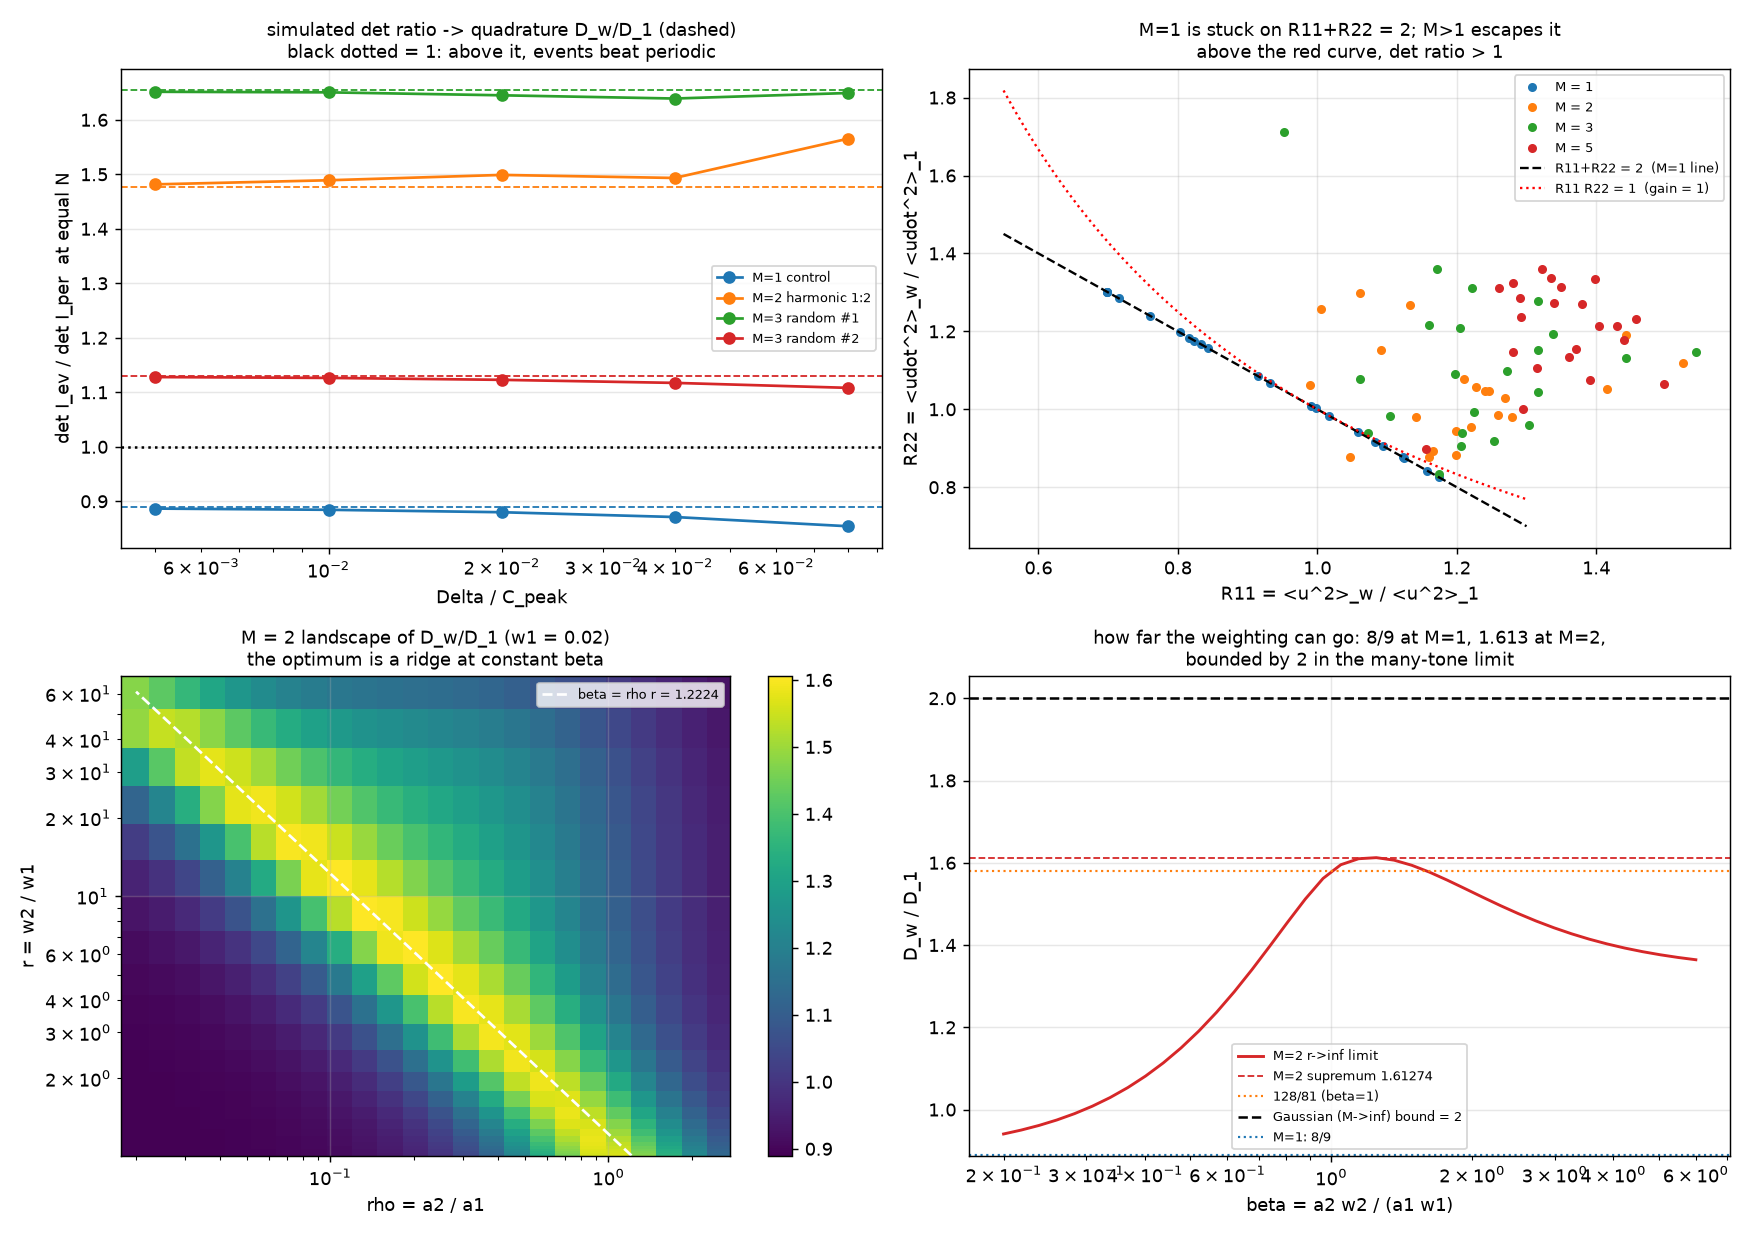
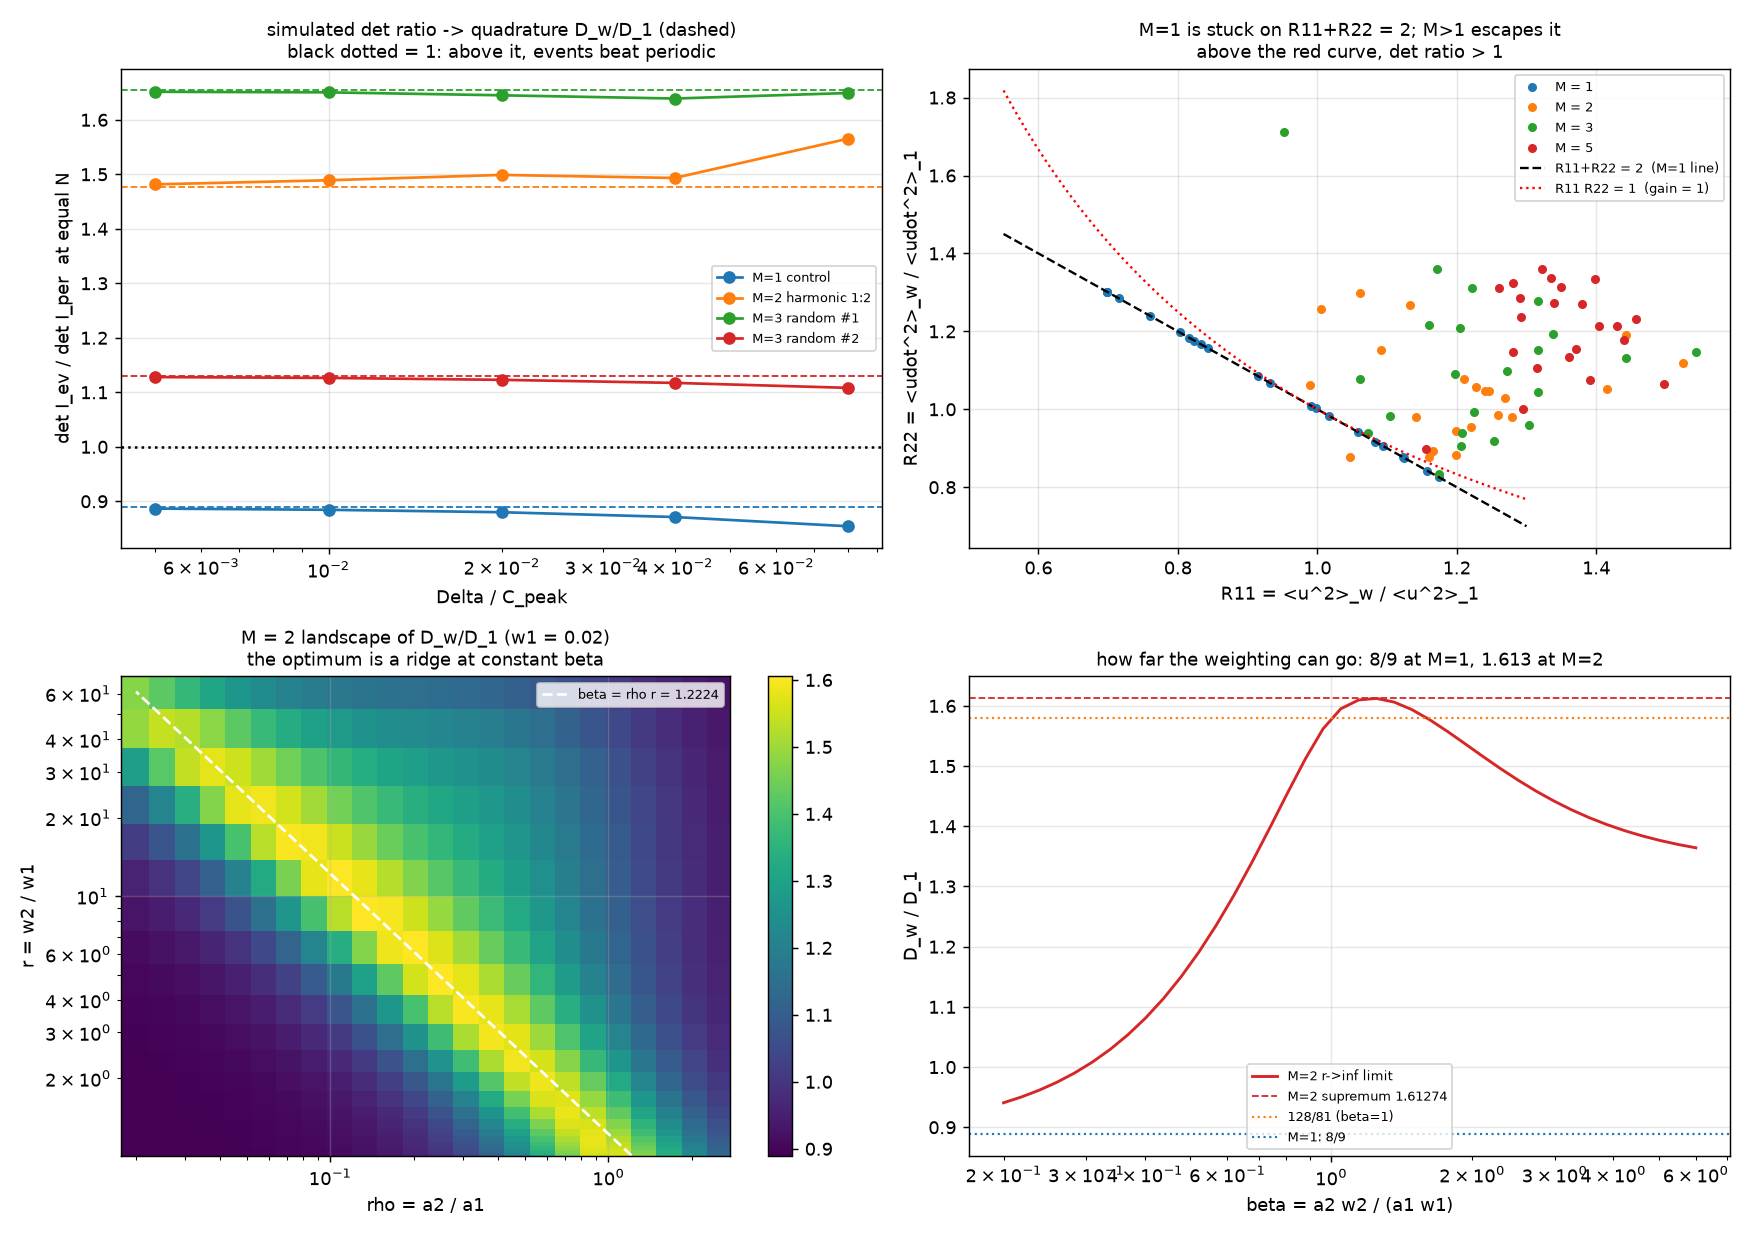
figure: remove unverified Gaussian bound line
Claude-Session: https://claude.ai/code/session_019Gfj98Z6Zt1WyJv4G2HJRk

diff --git a/multisine_input_design.py b/multisine_input_design.py
@@ -1753,14 +1753,11 @@ def make_plots_weighting(theta=(1.0, 0.5), model=MODEL_STATIC, outdir="."):
                      label="M=2 supremum 1.61274")
     ax[1, 1].axhline(128 / 81, color="C1", ls=":", lw=1.2,
                      label="128/81 (beta=1)")
-    ax[1, 1].axhline(2.0, color="k", ls="--", lw=1.4,
-                     label="Gaussian (M->inf) bound = 2")
     ax[1, 1].axhline(8 / 9, color="C0", ls=":", lw=1.2, label="M=1: 8/9")
     ax[1, 1].set_xlabel("beta = a2 w2 / (a1 w1)")
     ax[1, 1].set_ylabel("D_w / D_1")
     ax[1, 1].set_title("how far the weighting can go: 8/9 at M=1, "
-                       "1.613 at M=2,\nbounded by 2 in the many-tone limit",
-                       fontsize=10)
+                       "1.613 at M=2", fontsize=10)
     ax[1, 1].legend(fontsize=7, loc="lower center")
 
     for a in ax.ravel():
